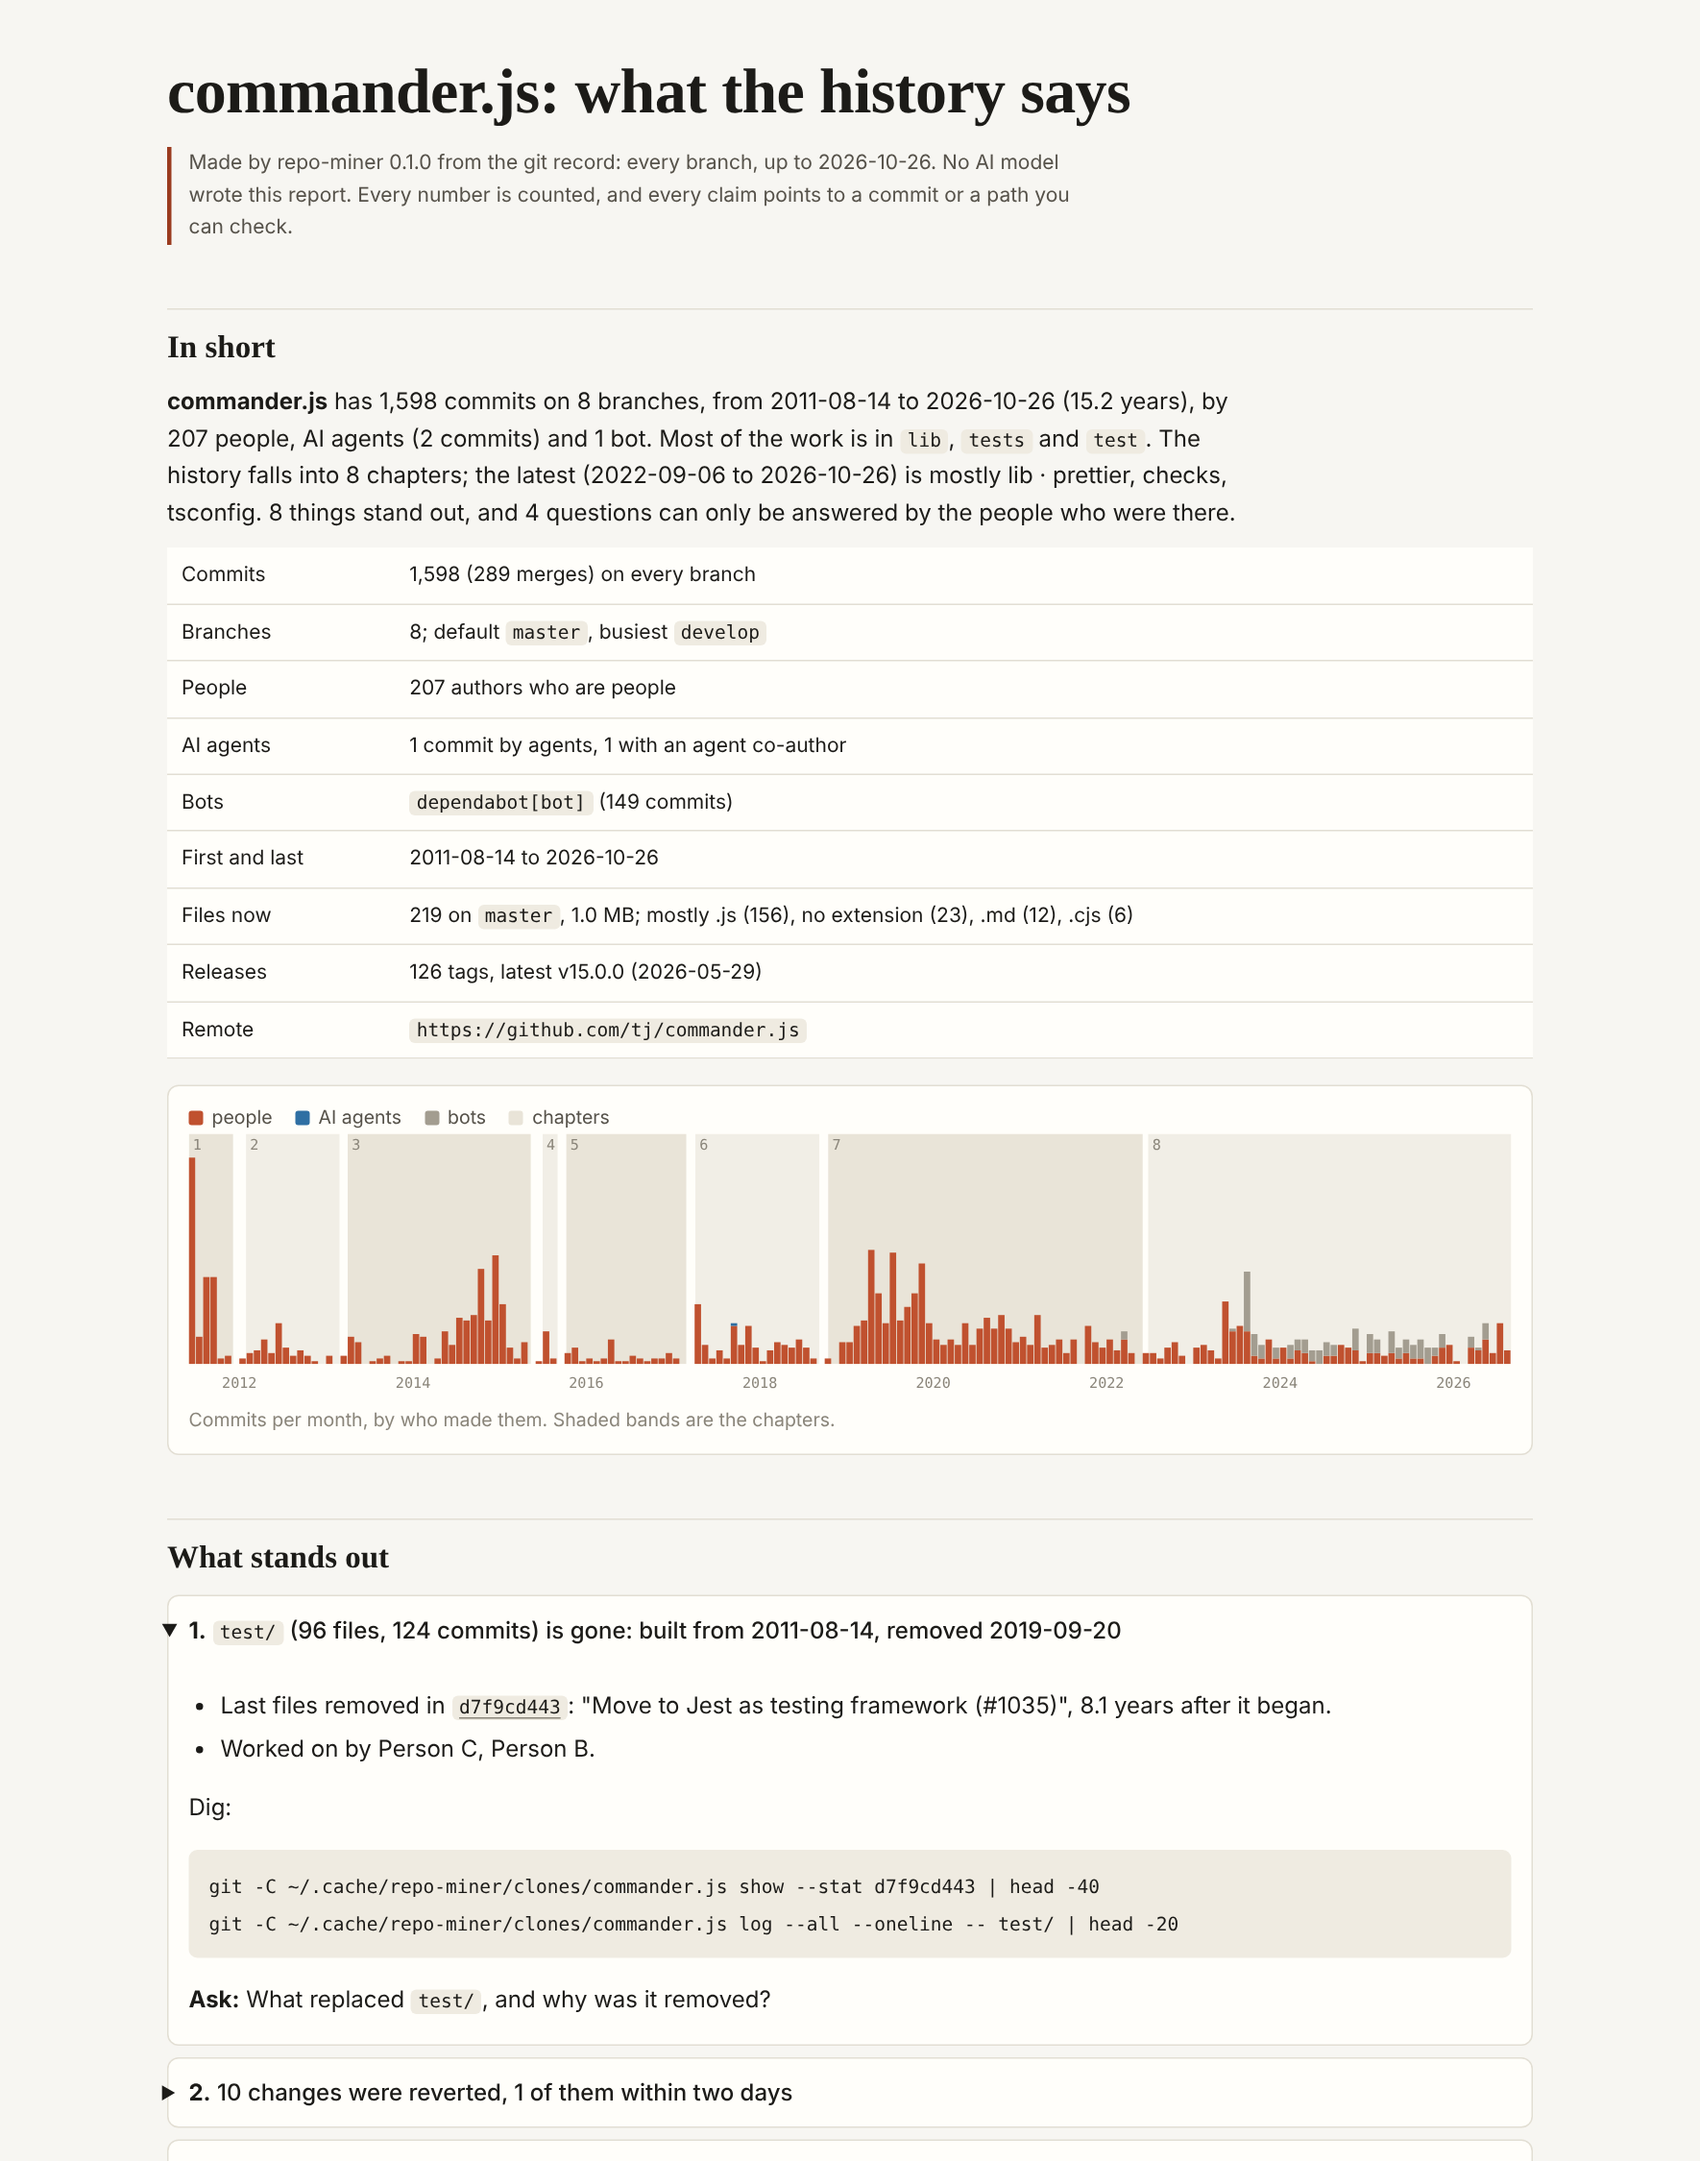
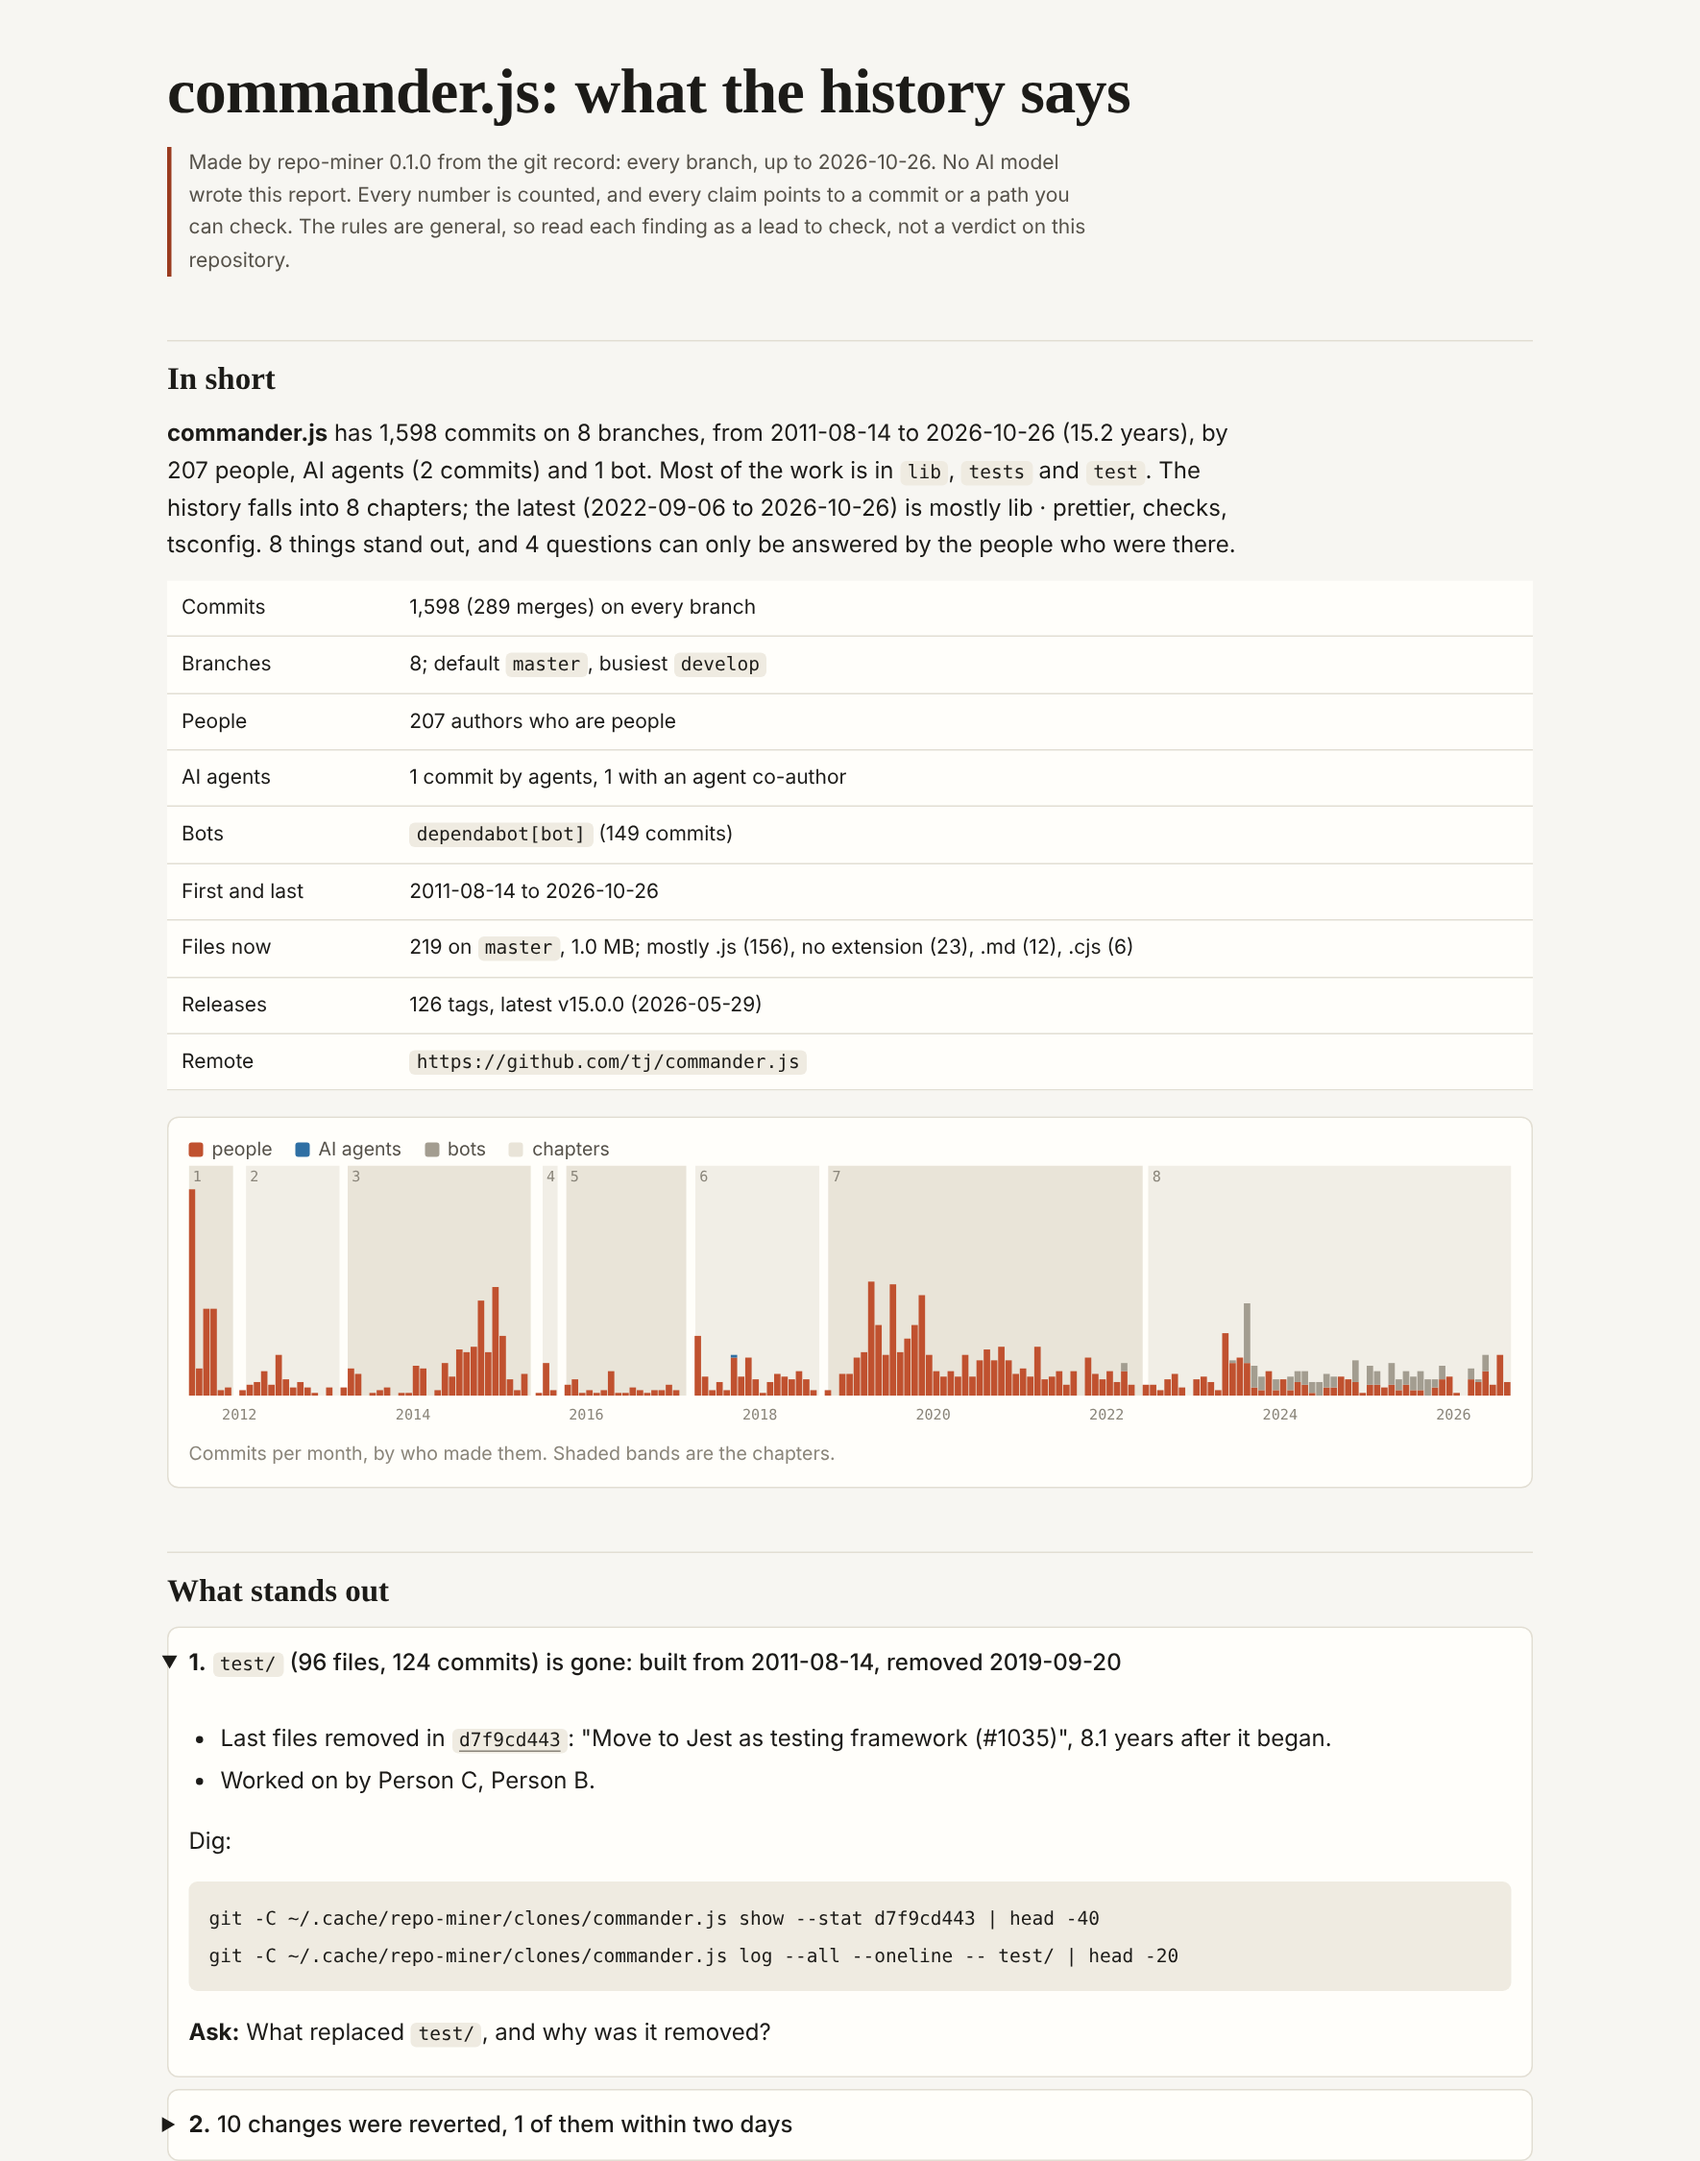
Regenerate the commander.js example and screenshot with the new wording

diff --git a/examples/commander.js/report.html b/examples/commander.js/report.html
@@ -32,7 +32,7 @@ details>div{padding-bottom:8px}details details{background:var(--bg)}
 .sw{display:inline-block;width:10px;height:10px;border-radius:2px;margin-right:6px;vertical-align:-1px}
 footer{margin-top:56px;color:var(--ink3);font-size:13px}
 </style></head><body><main><h1 id="commander-js-what-the-history-says">commander.js: what the history says</h1>
-<p class="note">Made by repo-miner 0.1.0 from the git record: every branch, up to 2026-10-26. No AI model wrote this report. Every number is counted, and every claim points to a commit or a path you can check.</p>
+<p class="note">Made by repo-miner 0.1.0 from the git record: every branch, up to 2026-10-26. No AI model wrote this report. Every number is counted, and every claim points to a commit or a path you can check. The rules are general, so read each finding as a lead to check, not a verdict on this repository.</p>
 <h2 id="in-short">In short</h2>
 <p><b>commander.js</b> has 1,598 commits on 8 branches, from 2011-08-14 to 2026-10-26 (15.2 years), by 207 people, AI agents (2 commits) and 1 bot. Most of the work is in <code>lib</code>, <code>tests</code> and <code>test</code>. The history falls into 8 chapters; the latest (2022-09-06 to 2026-10-26) is mostly lib · prettier, checks, tsconfig. 8 things stand out, and 4 questions can only be answered by the people who were there.</p>
 <div class="scroll"><table><tbody><tr><td>Commits</td><td>1,598 (289 merges) on every branch</td></tr><tr><td>Branches</td><td>8; default <code>master</code>, busiest <code>develop</code></td></tr><tr><td>People</td><td>207 authors who are people</td></tr><tr><td>AI agents</td><td>1 commit by agents, 1 with an agent co-author</td></tr><tr><td>Bots</td><td><code>dependabot[bot]</code> (149 commits)</td></tr><tr><td>First and last</td><td>2011-08-14 to 2026-10-26</td></tr><tr><td>Files now</td><td>219 on <code>master</code>, 1.0 MB; mostly .js (156), no extension (23), .md (12), .cjs (6)</td></tr><tr><td>Releases</td><td>126 tags, latest v15.0.0 (2026-05-29)</td></tr><tr><td>Remote</td><td><code>https://github.com/tj/commander.js</code></td></tr></tbody></table></div>

diff --git a/examples/commander.js/REPORT.md b/examples/commander.js/REPORT.md
@@ -1,6 +1,6 @@
 # commander.js: what the history says
 
-> Made by repo-miner 0.1.0 from the git record: every branch, up to 2026-10-26. No AI model wrote this report. Every number is counted, and every claim points to a commit or a path you can check.
+> Made by repo-miner 0.1.0 from the git record: every branch, up to 2026-10-26. No AI model wrote this report. Every number is counted, and every claim points to a commit or a path you can check. The rules are general, so read each finding as a lead to check, not a verdict on this repository.
 
 ## In short
 
